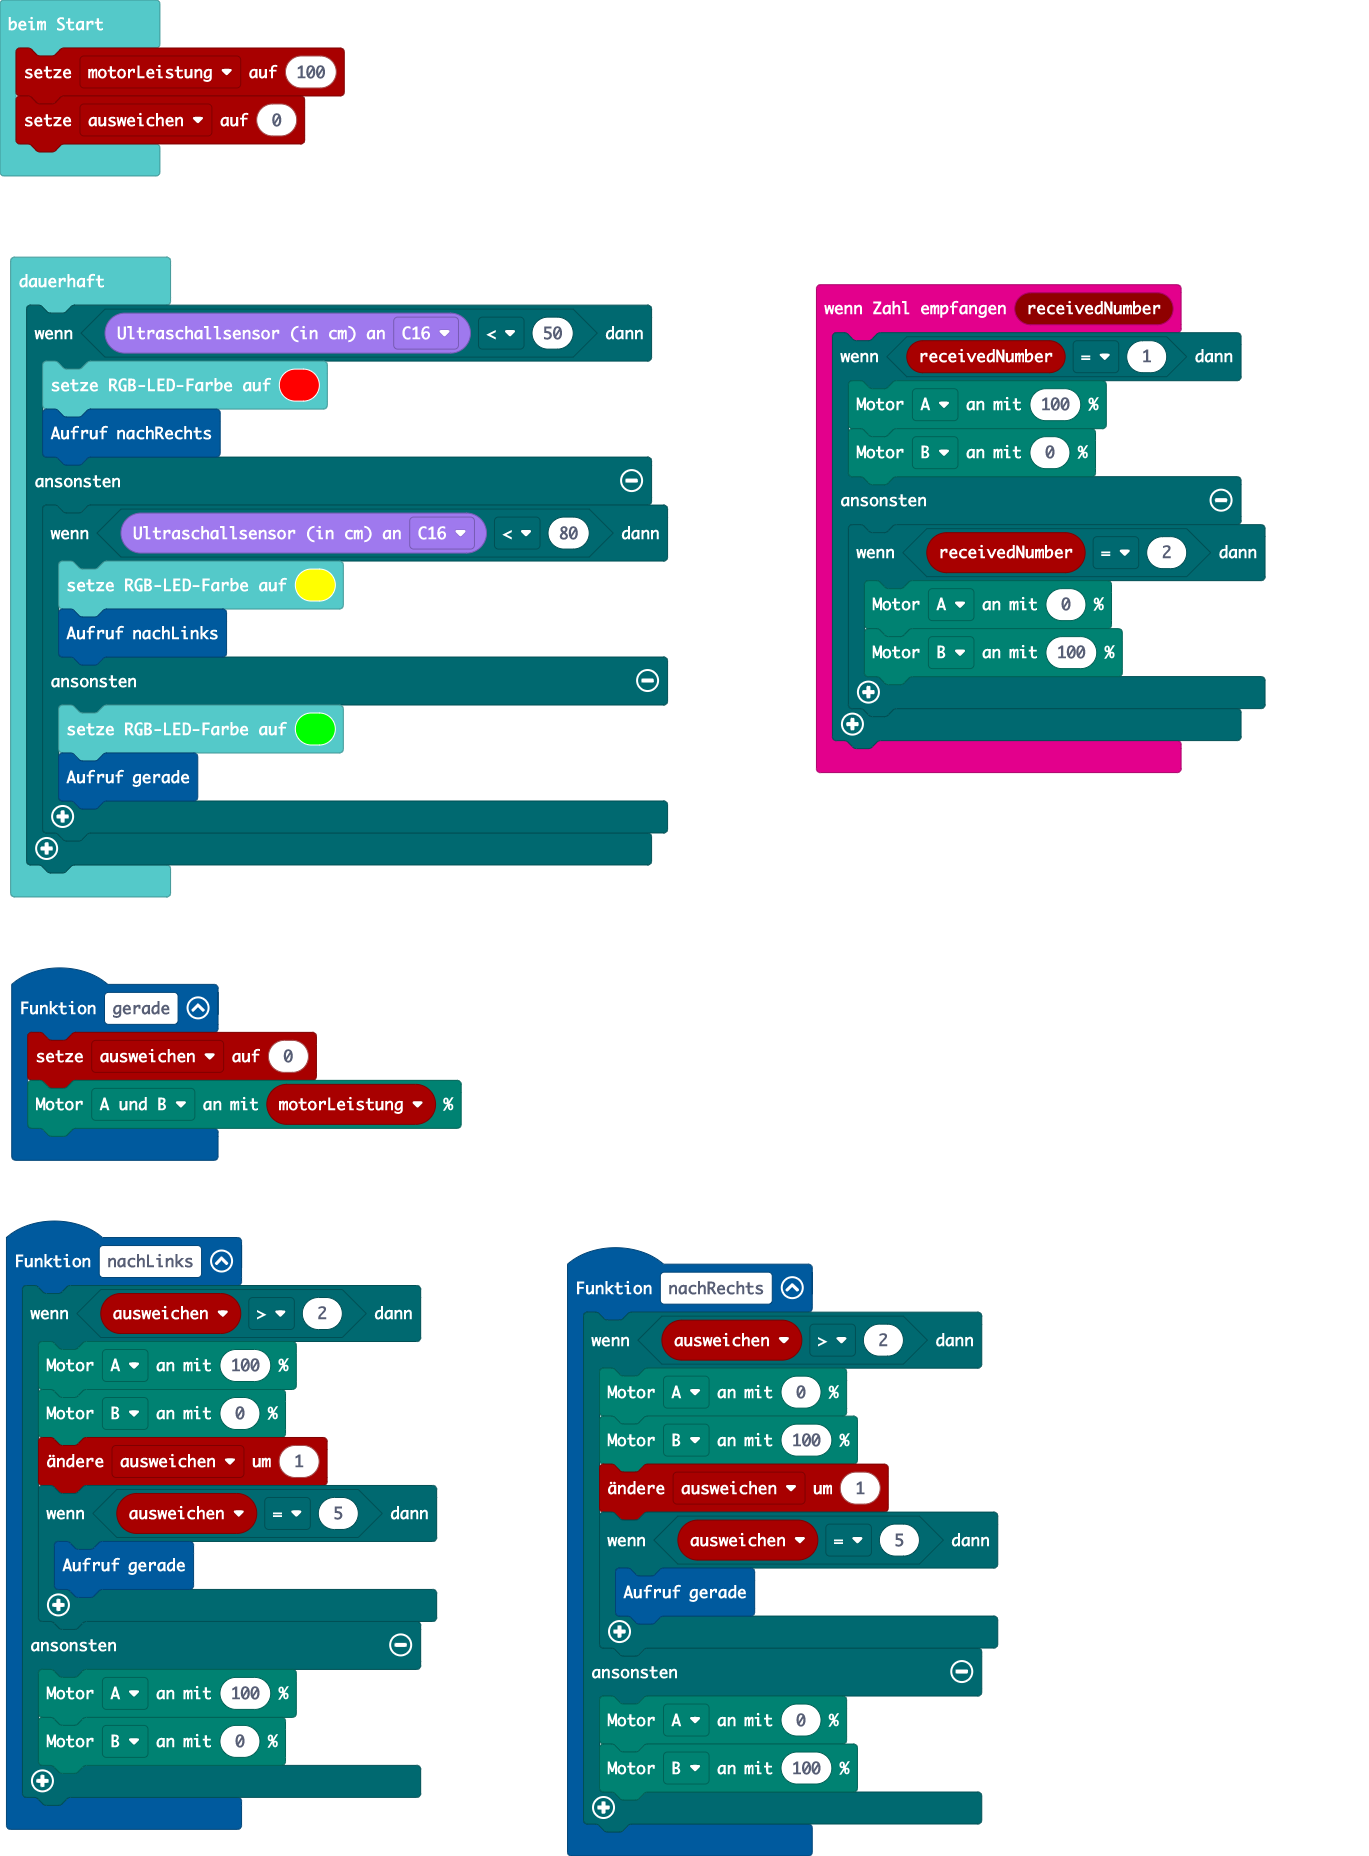
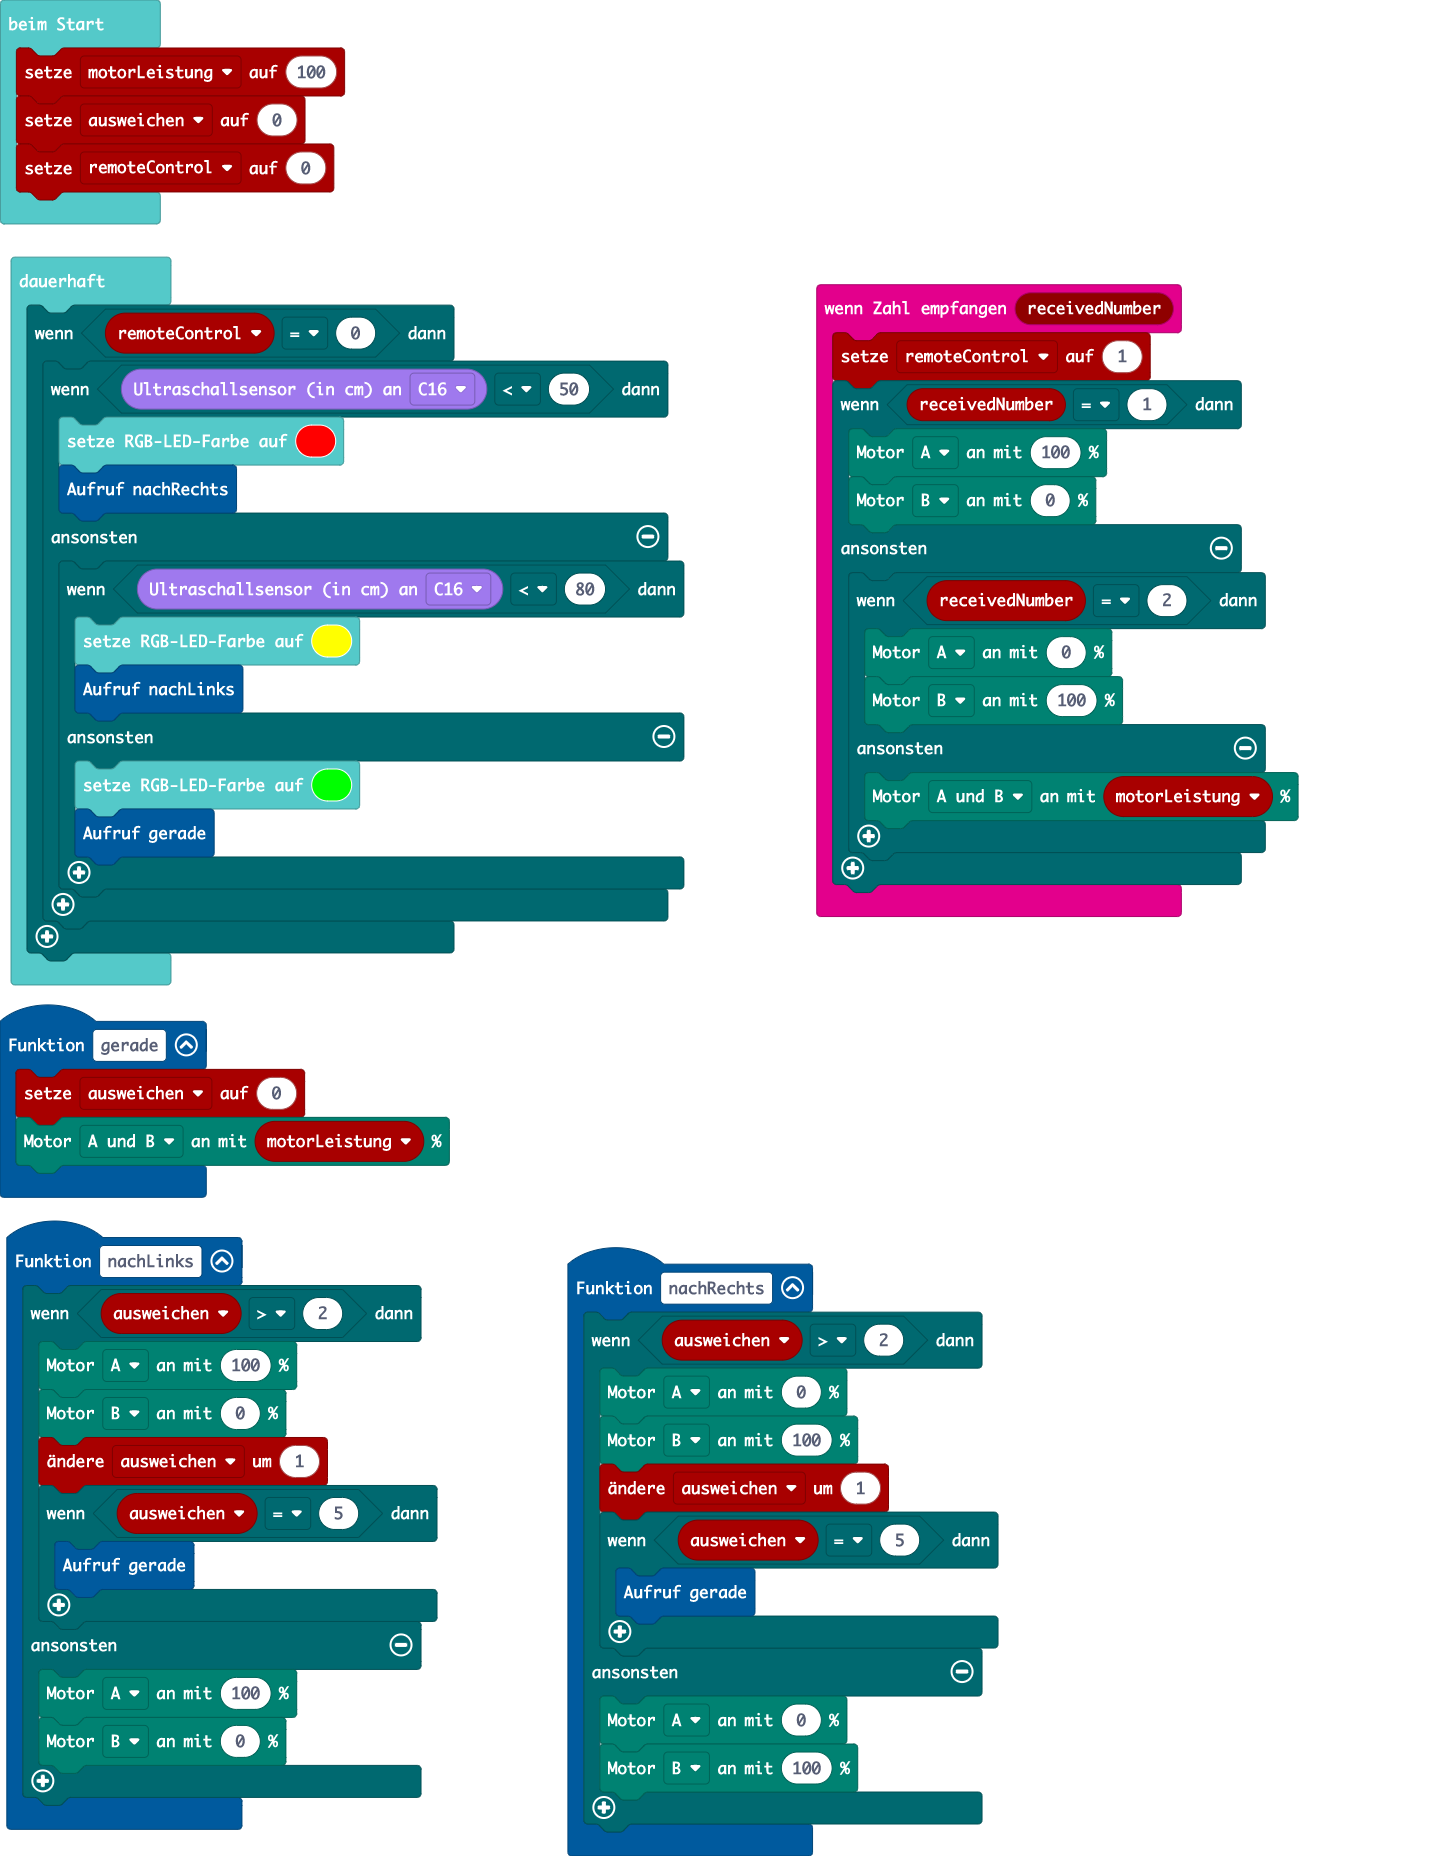
Aktualisiere main.blocks, main.ts

diff --git a/main.ts b/main.ts
@@ -1,4 +1,5 @@
 radio.onReceivedNumber(function (receivedNumber) {
+    remoteControl = 1
     if (receivedNumber == 1) {
         motors.dualMotorPower(Motor.A, 100)
         motors.dualMotorPower(Motor.B, 0)
@@ -6,6 +7,8 @@ radio.onReceivedNumber(function (receivedNumber) {
         if (receivedNumber == 2) {
             motors.dualMotorPower(Motor.A, 0)
             motors.dualMotorPower(Motor.B, 100)
+        } else {
+            motors.dualMotorPower(Motor.AB, motorLeistung)
         }
     }
 })
@@ -39,21 +42,25 @@ function nachRechts () {
         motors.dualMotorPower(Motor.B, 100)
     }
 }
+let remoteControl = 0
 let ausweichen = 0
 let motorLeistung = 0
 motorLeistung = 100
 ausweichen = 0
+remoteControl = 0
 basic.forever(function () {
-    if (grove.measureInCentimeters(DigitalPin.C16) < 50) {
-        basic.setLedColor(0xff0000)
-        nachRechts()
-    } else {
-        if (grove.measureInCentimeters(DigitalPin.C16) < 80) {
-            basic.setLedColor(0xffff00)
-            nachLinks()
+    if (remoteControl == 0) {
+        if (grove.measureInCentimeters(DigitalPin.C16) < 50) {
+            basic.setLedColor(0xff0000)
+            nachRechts()
         } else {
-            basic.setLedColor(0x00ff00)
-            gerade()
+            if (grove.measureInCentimeters(DigitalPin.C16) < 80) {
+                basic.setLedColor(0xffff00)
+                nachLinks()
+            } else {
+                basic.setLedColor(0x00ff00)
+                gerade()
+            }
         }
     }
 })
